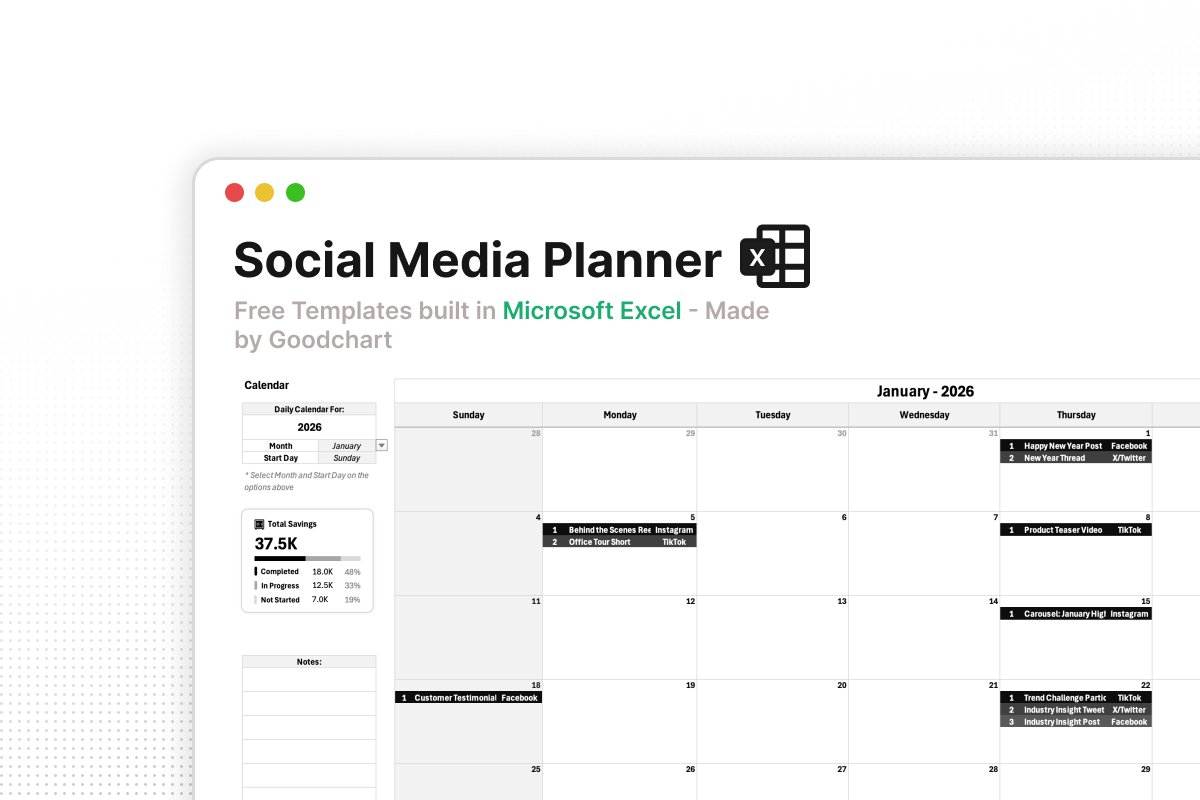
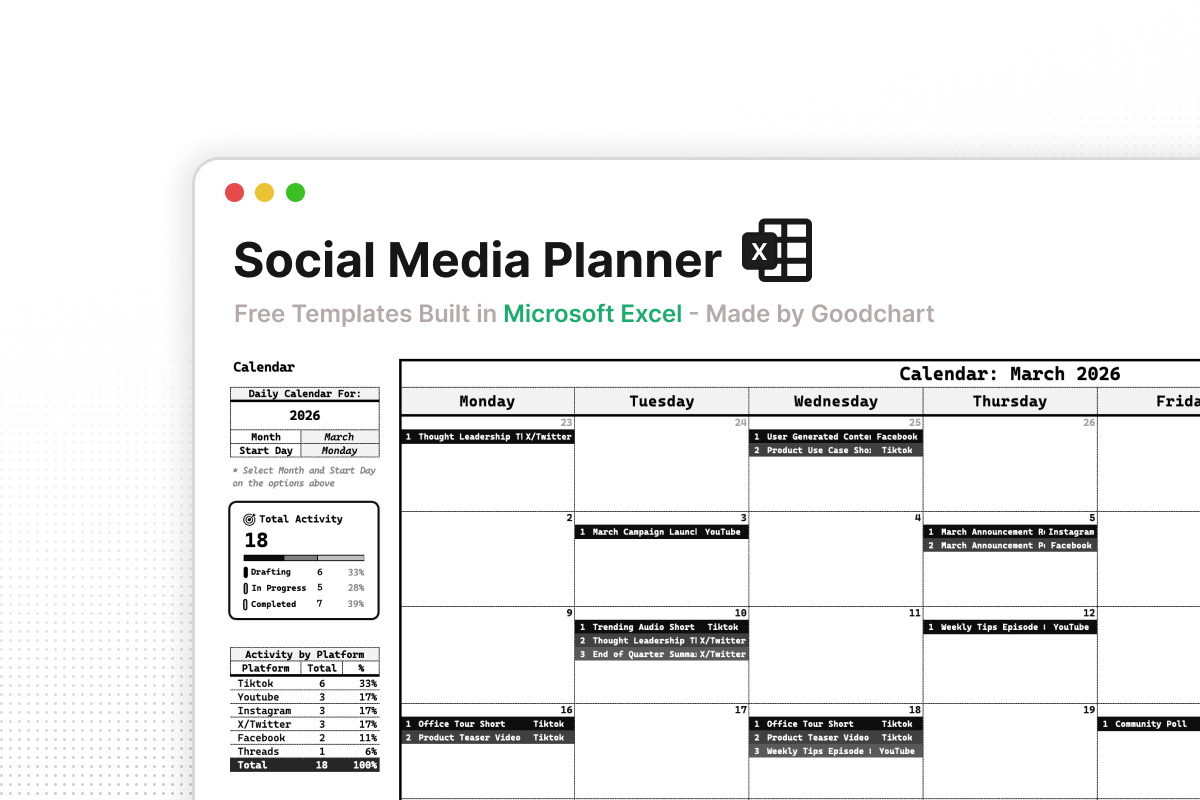
add social media planner and daily task to do

diff --git a/src/consts.ts b/src/consts.ts
@@ -17,6 +17,10 @@ export const NAV_LINKS: SocialLink[] = [
     label: 'blog',
   },
   {
+    href: '/catalogue',
+    label: 'catalogue',
+  },
+  {
     href: '/authors',
     label: 'authors',
   },
